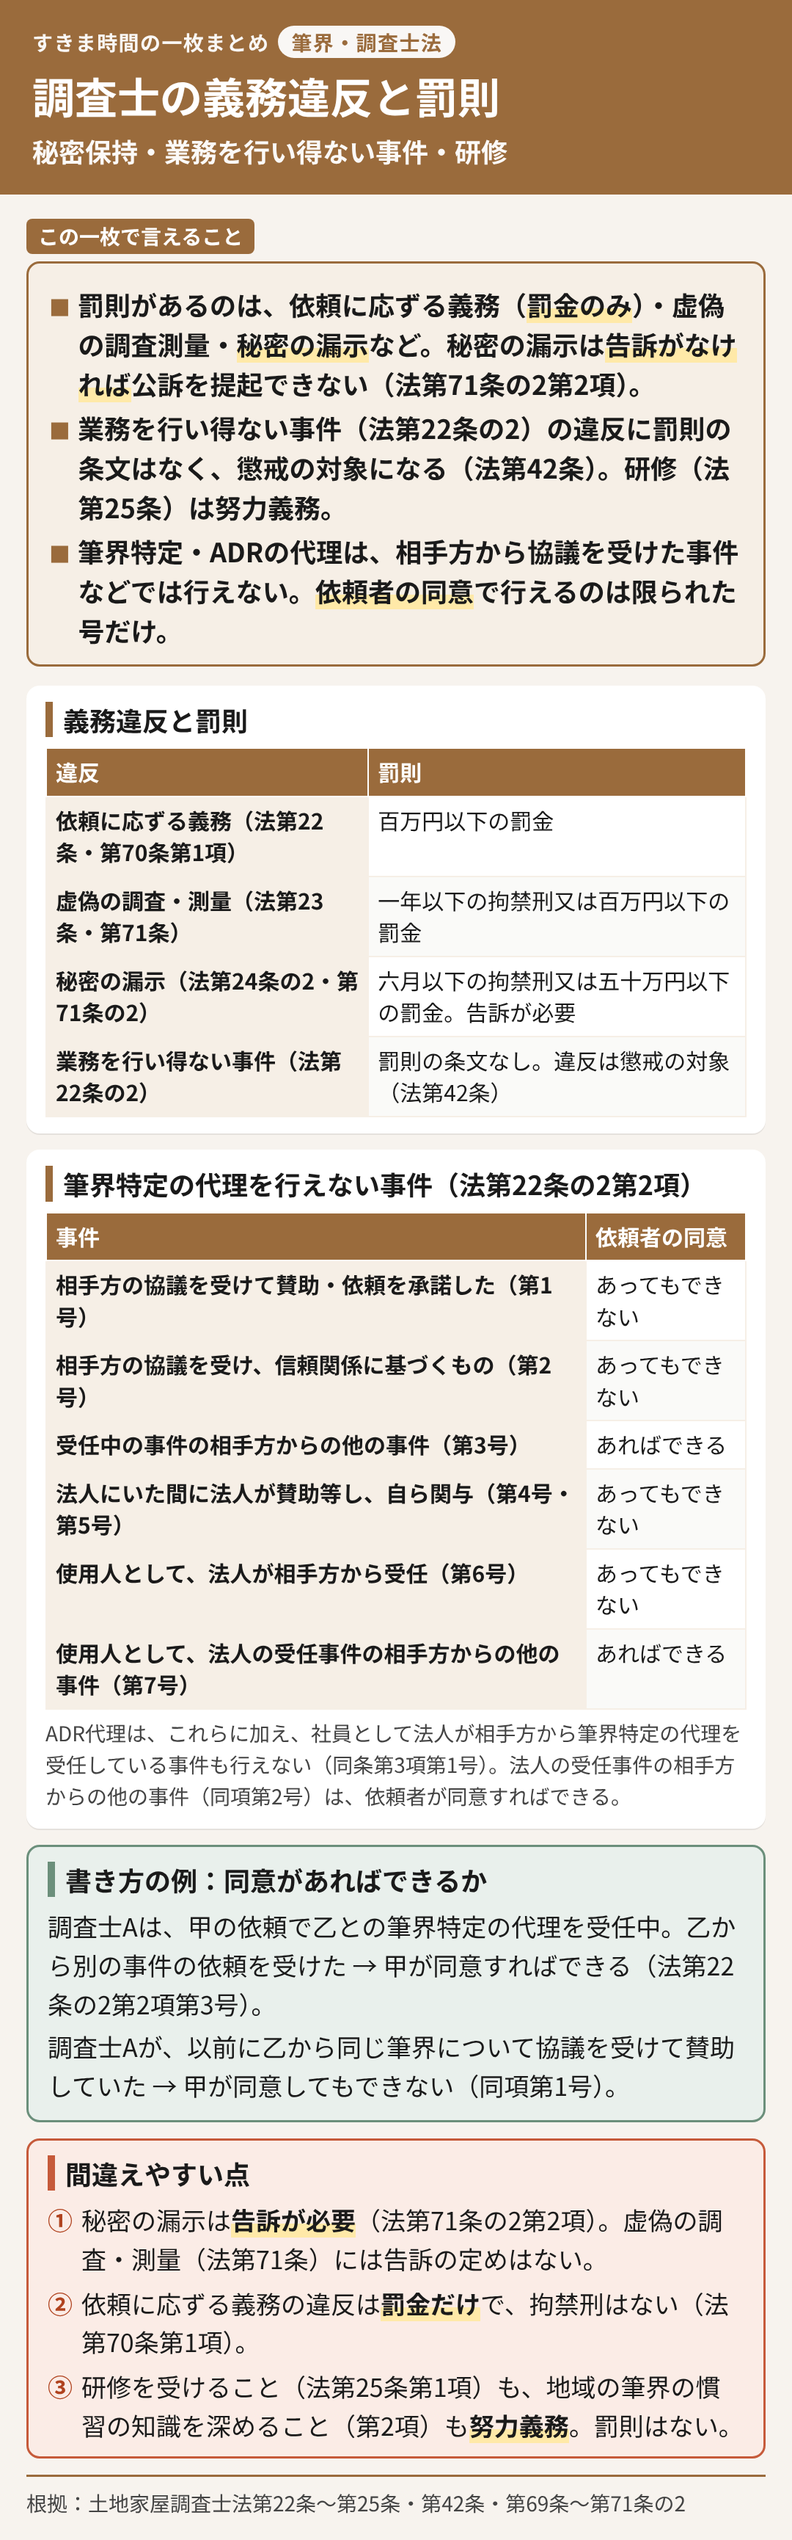
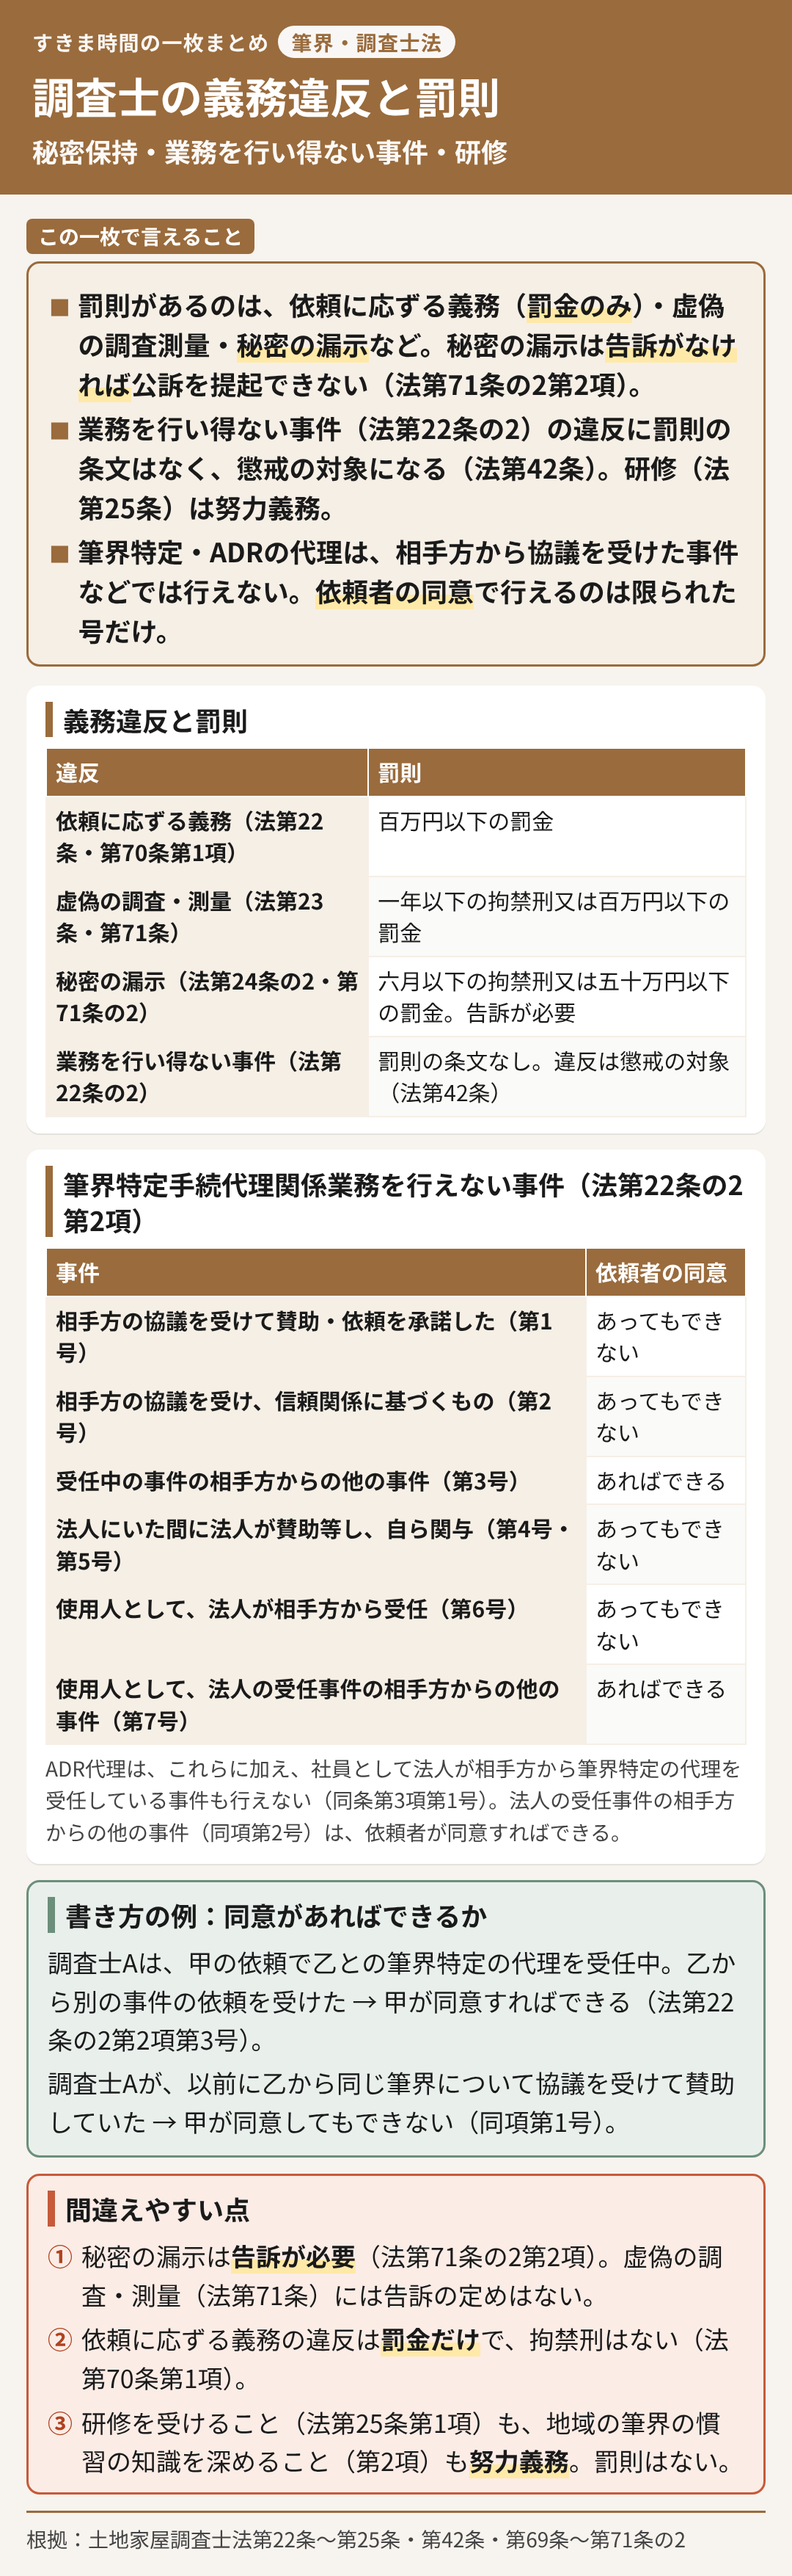
一枚まとめ：その2の独立照合の修正（C・D・F・H）と照合の記録、README更新（全58枚）
Claude-Session: https://claude.ai/code/session_019FhuTANsXXvwVxCcDLdTwv

Changed region(s): [[0.0306, 0.0, 0.9472, 0.9988]]

diff --git a/note-articles/ichimai-matome/sheets/F/F-07_chousashi-bassoku.html b/note-articles/ichimai-matome/sheets/F/F-07_chousashi-bassoku.html
@@ -49,7 +49,7 @@ b{font-weight:900;background:linear-gradient(transparent 62%,#FFE9A8 62%)}
 </tbody></table>
 </section>
 <section class="blk">
-<h3>筆界特定の代理を行えない事件（法第22条の2第2項）</h3>
+<h3>筆界特定手続代理関係業務を行えない事件（法第22条の2第2項）</h3>
 <table><thead><tr><th>事件</th><th>依頼者の同意</th></tr></thead><tbody>
 <tr><td>相手方の協議を受けて賛助・依頼を承諾した（第1号）</td><td>あってもできない</td></tr>
 <tr><td>相手方の協議を受け、信頼関係に基づくもの（第2号）</td><td>あってもできない</td></tr>

diff --git a/note-articles/ichimai-matome/src/sheets/H-05.py b/note-articles/ichimai-matome/src/sheets/H-05.py
@@ -40,7 +40,7 @@ SHEET = dict(
         ('不動産登記規則', '107', '当該地役権の登記に当該地役権設定の範囲及び地役権図面番号を記録しなければならない'),
         ('民法', '909', '遺産の分割は、相続開始の時にさかのぼってその効力を生ずる'),
     ],
-    unverified=['申請人の欄の「（被相続人　何某）相続人」の形と、地役権設定の範囲の「何番の土地　何側何平方メートル」の形は記載例によるもので、法令・準則の原文に文言はない。',
+    unverified=['遺産分割の後は取得した相続人が申請人になるという扱いは、民法第909条（遺産分割の遡及効）からの解釈で、不動産登記法・令に直接の文言はない。', '申請人の欄の「（被相続人　何某）相続人」の形と、地役権設定の範囲の「何番の土地　何側何平方メートル」の形は記載例によるもので、法令・準則の原文に文言はない。',
                 '相続人の1人だけが申請するときの扱い（ほかの相続人に代位するかなど）は場面で分かれ、原文で一律に確かめられないので載せていない。'],
     note_law='法定相続情報番号の提供は、令和6年4月1日施行の規則の改正による（規則第37条の3）。',
     header=dict(l1='土地の申請書', l2='相続人と地役権', hl='地役権',

diff --git a/note-articles/ichimai-matome/src/sheets/F-07.py b/note-articles/ichimai-matome/src/sheets/F-07.py
@@ -15,7 +15,7 @@ SHEET = dict(
                    ['虚偽の調査・測量（法第23条・第71条）', '一年以下の拘禁刑又は百万円以下の罰金'],
                    ['秘密の漏示（法第24条の2・第71条の2）', '六月以下の拘禁刑又は五十万円以下の罰金。告訴が必要'],
                    ['業務を行い得ない事件（法第22条の2）', '罰則の条文なし。違反は懲戒の対象（法第42条）']]),
-        dict(kind='table', title='筆界特定の代理を行えない事件（法第22条の2第2項）',
+        dict(kind='table', title='筆界特定手続代理関係業務を行えない事件（法第22条の2第2項）',
              head=['事件', '依頼者の同意'],
              rows=[['相手方の協議を受けて賛助・依頼を承諾した（第1号）', 'あってもできない'],
                    ['相手方の協議を受け、信頼関係に基づくもの（第2号）', 'あってもできない'],

diff --git a/note-articles/ichimai-matome/sheets/F/F-07_chousashi-bassoku.md b/note-articles/ichimai-matome/sheets/F/F-07_chousashi-bassoku.md
@@ -19,7 +19,7 @@
 | 秘密の漏示（法第24条の2・第71条の2） | 六月以下の拘禁刑又は五十万円以下の罰金。告訴が必要 |
 | 業務を行い得ない事件（法第22条の2） | 罰則の条文なし。違反は懲戒の対象（法第42条） |
 
-### 筆界特定の代理を行えない事件（法第22条の2第2項）
+### 筆界特定手続代理関係業務を行えない事件（法第22条の2第2項）
 
 | 事件 | 依頼者の同意 |
 |---|---|
@@ -135,4 +135,4 @@ Final check before rendering: confirm the image is exactly 1080x1440 portrait (3
 
 ---
 
-*画像（F-07_chousashi-bassoku.png）のサイズ：1080×3460。HTMLで組んで書き出した文字の図。*
+*画像（F-07_chousashi-bassoku.png）のサイズ：1080×3509。HTMLで組んで書き出した文字の図。*

diff --git a/note-articles/ichimai-matome/sheets/H/H-05_kijutsu-tochi-ran-2.md b/note-articles/ichimai-matome/sheets/H/H-05_kijutsu-tochi-ran-2.md
@@ -47,6 +47,7 @@
 
 **確認事項（原文を確かめられなかった根拠）**
 
+- 遺産分割の後は取得した相続人が申請人になるという扱いは、民法第909条（遺産分割の遡及効）からの解釈で、不動産登記法・令に直接の文言はない。
 - 申請人の欄の「（被相続人　何某）相続人」の形と、地役権設定の範囲の「何番の土地　何側何平方メートル」の形は記載例によるもので、法令・準則の原文に文言はない。
 - 相続人の1人だけが申請するときの扱い（ほかの相続人に代位するかなど）は場面で分かれ、原文で一律に確かめられないので載せていない。
 
